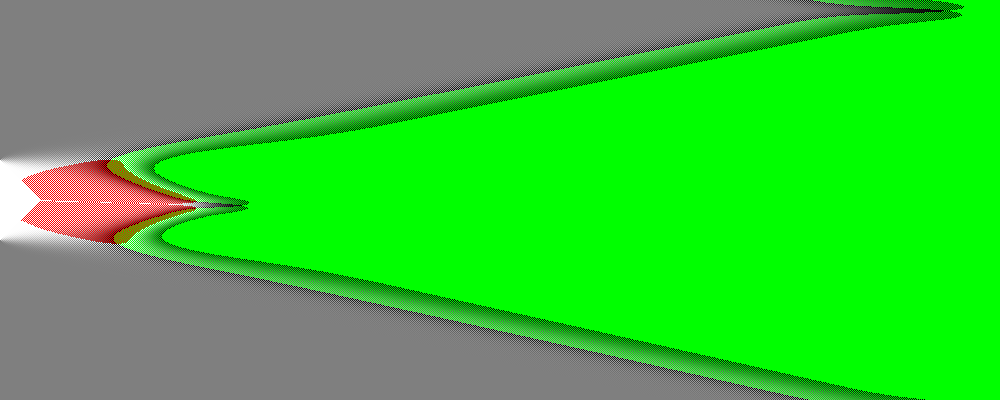
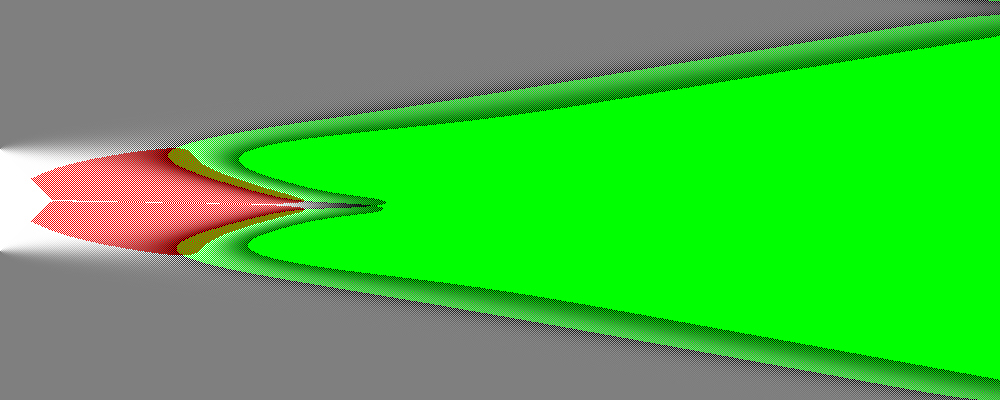
last 1D

Changed region(s): [[0.0, 0.0, 1.0, 1.0]]

diff --git a/yay.go b/yay.go
@@ -25,7 +25,7 @@ func main() {
 		baseIntensity: 1.0,
 		maxIntensity:  2.0,
 		c:             float64(1.0),
-		viscosity:     0.2,
+		viscosity:     0.3,
 	}
 	simConsts.xstep = float64(2.0 / float64(simConsts.numBoxes-1))
 	simConsts.sigma = 1.0 / simConsts.maxIntensity
@@ -42,7 +42,7 @@ func main() {
 	for i := 0; i < simConsts.numBoxes; i++ {
 		currRow[i] = simConsts.baseIntensity
 	}
-	for i := 160; i < 240; i++ {
+	for i := 149; i < 251; i++ {
 		currRow[i] = simConsts.maxIntensity
 	}
 
